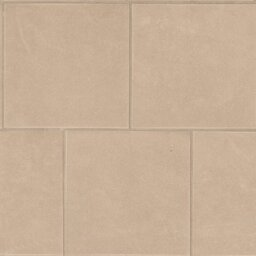
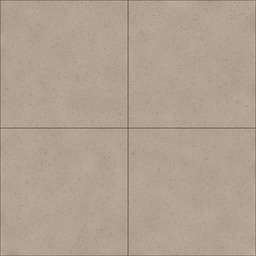
Update floor tile assets and integrate new material textures
Replit-Commit-Author: Agent

diff --git a/client/src/components/kitchen-tool/studio-scene.tsx b/client/src/components/kitchen-tool/studio-scene.tsx
@@ -570,7 +570,9 @@ function Baseboard({
         return (
           <mesh key={i} position={p} rotation={[0, theta, 0]} receiveShadow>
             <boxGeometry args={[len, BASEBOARD_H, BASEBOARD_T]} />
-            <meshStandardMaterial color="#3a3a3c" roughness={0.6} />
+            {/* Skirting in the same beige family as the reference floor —
+                the old near-black strip looked alien next to the tiles. */}
+            <meshStandardMaterial color="#a89a86" roughness={0.5} />
           </mesh>
         );
       })}
@@ -618,6 +620,9 @@ function Floor({
  *  cove/cornice was removed; COVE_DROP stays exported (now 0) because cabinet
  *  mount-height limits in studio.tsx reference it. */
 export const COVE_DROP = 0;
+/** Gypsum slab thickness — deep enough to fully enclose the recessed
+ *  downlight cavities (0.055 m) so nothing protrudes above the ceiling. */
+const CEILING_SLAB_T = 0.08;
 
 /* Artificial lighting colors */
 const WARM_LIGHT = "#ffcc80";
@@ -664,12 +669,21 @@ function Ceiling({
 
   return (
     <>
-      <mesh position={[0, ceilingM, 0]} rotation={[Math.PI / 2, 0, 0]} receiveShadow>
-        <shapeGeometry args={[shape, 24]} />
+      {/* Real gypsum slab (8 cm thick, extruded upward) so the recessed
+          fixtures are fully enclosed inside the ceiling — nothing pokes out
+          when viewed from outside/above. Local +Z extrusion maps to -Y after
+          the PI/2 X-rotation, so position at ceilingM + thickness. */}
+      <mesh
+        position={[0, ceilingM + CEILING_SLAB_T, 0]}
+        rotation={[Math.PI / 2, 0, 0]}
+        receiveShadow
+      >
+        <extrudeGeometry
+          args={[shape, { depth: CEILING_SLAB_T, bevelEnabled: false, curveSegments: 24 }]}
+        />
         <meshStandardMaterial
           color={plaster.color ?? "#f9f8f5"}
           roughness={plaster.roughness ?? 0.92}
-          side={THREE.DoubleSide}
         />
       </mesh>
       {showSoffit &&

diff --git a/client/src/components/kitchen-tool/materials.ts b/client/src/components/kitchen-tool/materials.ts
@@ -37,24 +37,26 @@ export interface MaterialOption {
 
 export const FLOOR_OPTIONS: MaterialOption[] = [
   {
-    // Customer-approved "Real Tile" — Poly Haven patio_tiles (CC0), the exact
-    // material set the user attached as glTF. The 2K repeat spans a 5×5 tile
-    // grid, so tileSizeM=5 renders each tile as a large ~100 cm square that
-    // tiles across the whole floor from the room corner (no mid-tile start).
+    // Customer-approved "Real Tile" — smooth large-format beige porcelain
+    // matching the AI-render reference: procedurally built (base tint #B6A794
+    // sampled from the reference floor, soft mottling, fine porcelain grain
+    // from ambientCG Porcelain001 CC0, thin 2×2 grout grid). The texture
+    // spans 2×2 tiles, so tileSizeM=1.6 renders each tile as an 80 cm square
+    // starting flush at the room corner.
     id: "real-tile",
     nameAr: "بلاط حقيقي",
     nameEn: "Real Tile",
     thumb: `${ASSETS}/thumbs/floor-real-tile.jpg`,
-    tileSizeM: 5,
+    tileSizeM: 1.6,
     // Semi-polished porcelain sheen: a touch more environment reflection and
     // slightly lower roughness so studio light glints at low viewing angles
     // without looking plastic.
     envMapIntensity: 1.25,
-    roughnessMult: 0.82,
+    roughnessMult: 0.9,
     maps: {
-      map: `${ASSETS}/floor-real-tile/textures/patio_tiles_diff_2k.jpg`,
-      normalMap: `${ASSETS}/floor-real-tile/textures/patio_tiles_nor_gl_2k.jpg`,
-      armMap: `${ASSETS}/floor-real-tile/textures/patio_tiles_arm_2k.jpg`,
+      map: `${ASSETS}/floor-real-tile/textures/porcelain_beige_diff_2k.jpg`,
+      normalMap: `${ASSETS}/floor-real-tile/textures/porcelain_beige_nor_gl_2k.jpg`,
+      armMap: `${ASSETS}/floor-real-tile/textures/porcelain_beige_arm_2k.jpg`,
     },
   },
   {
